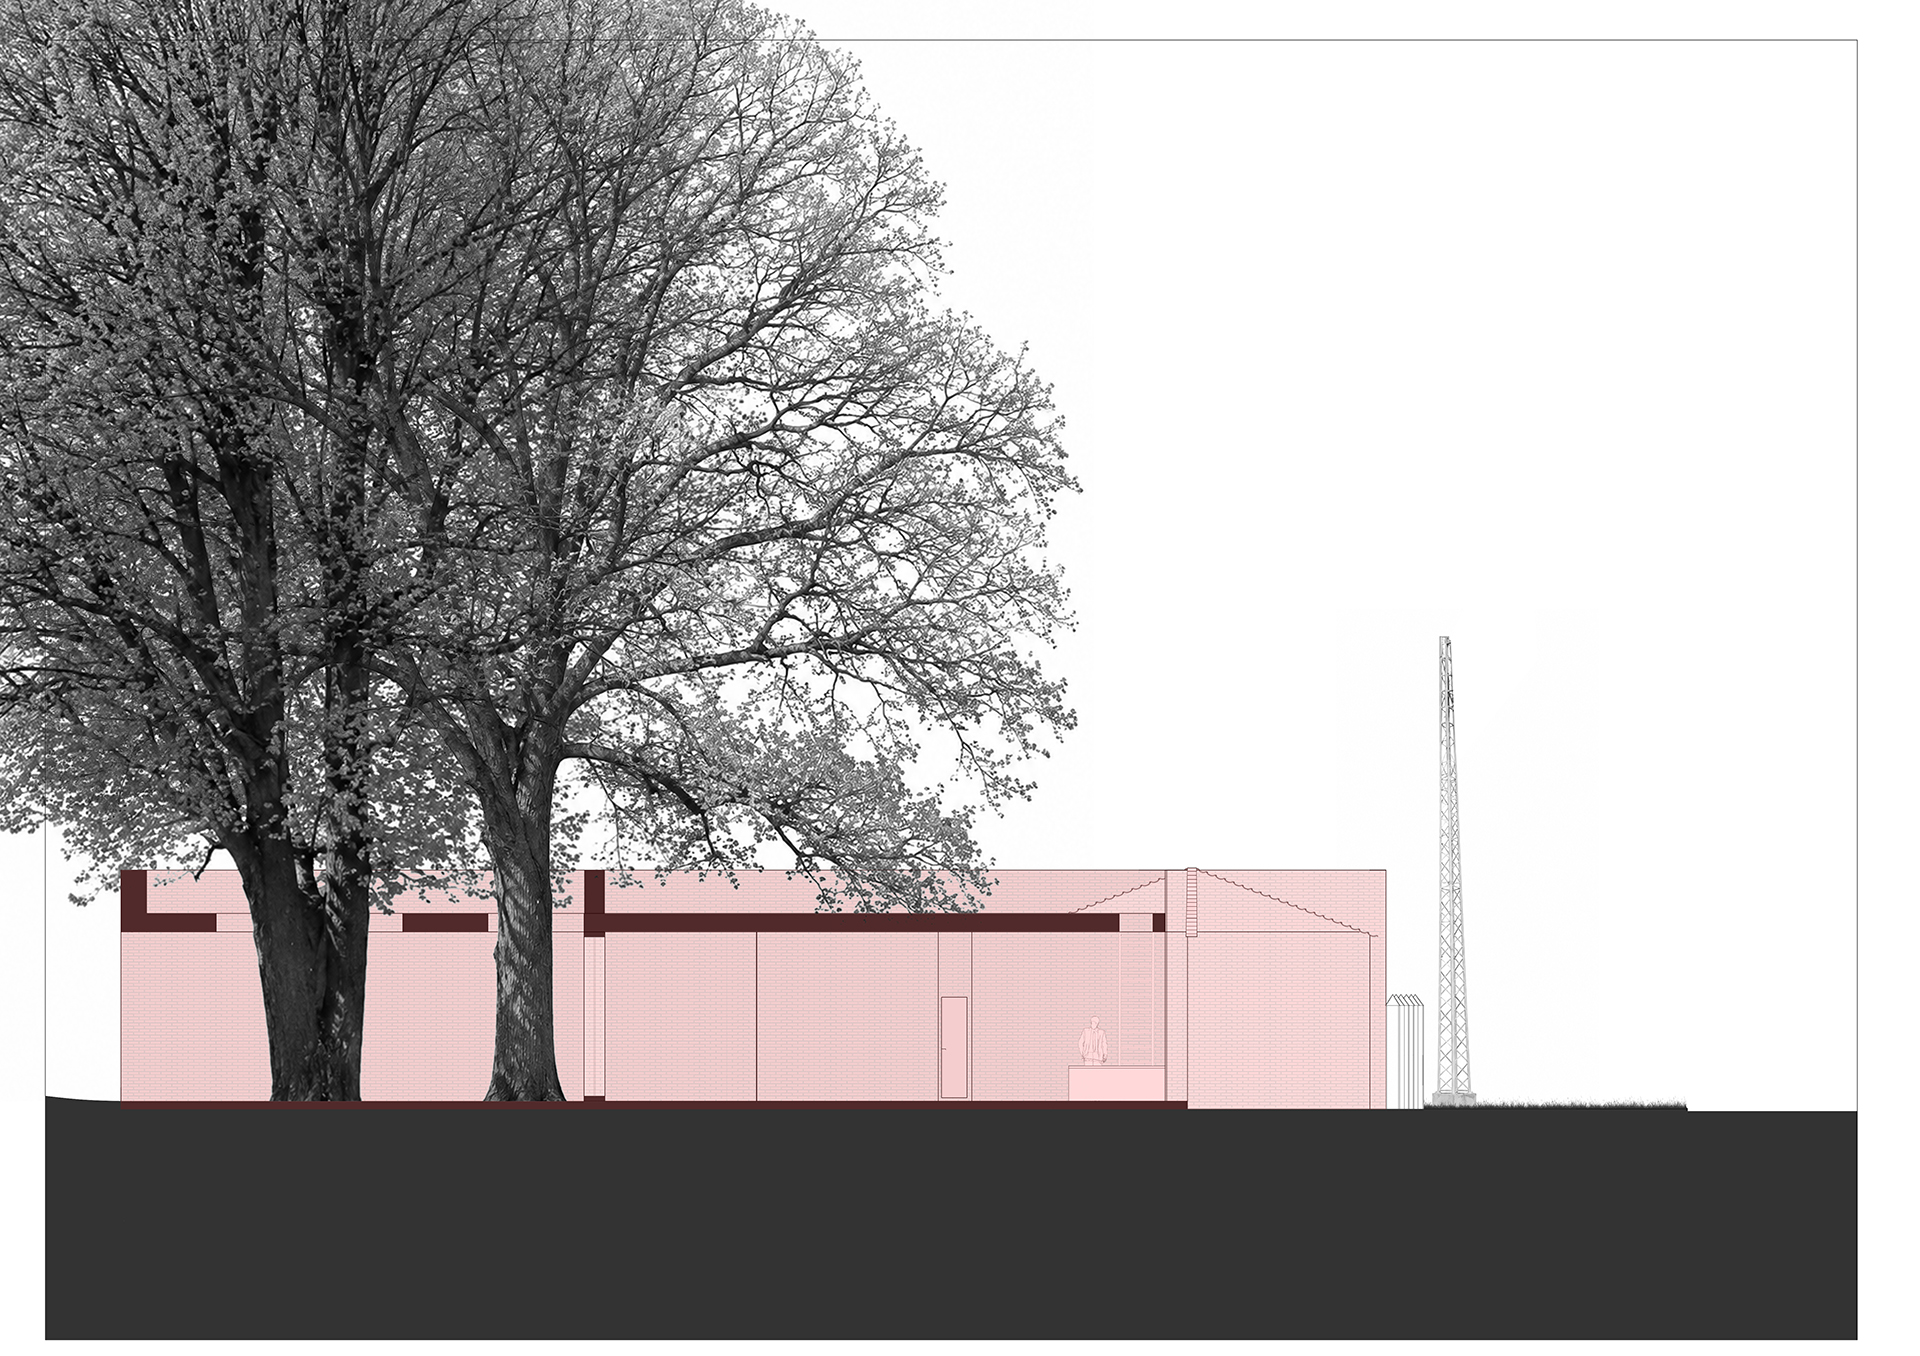
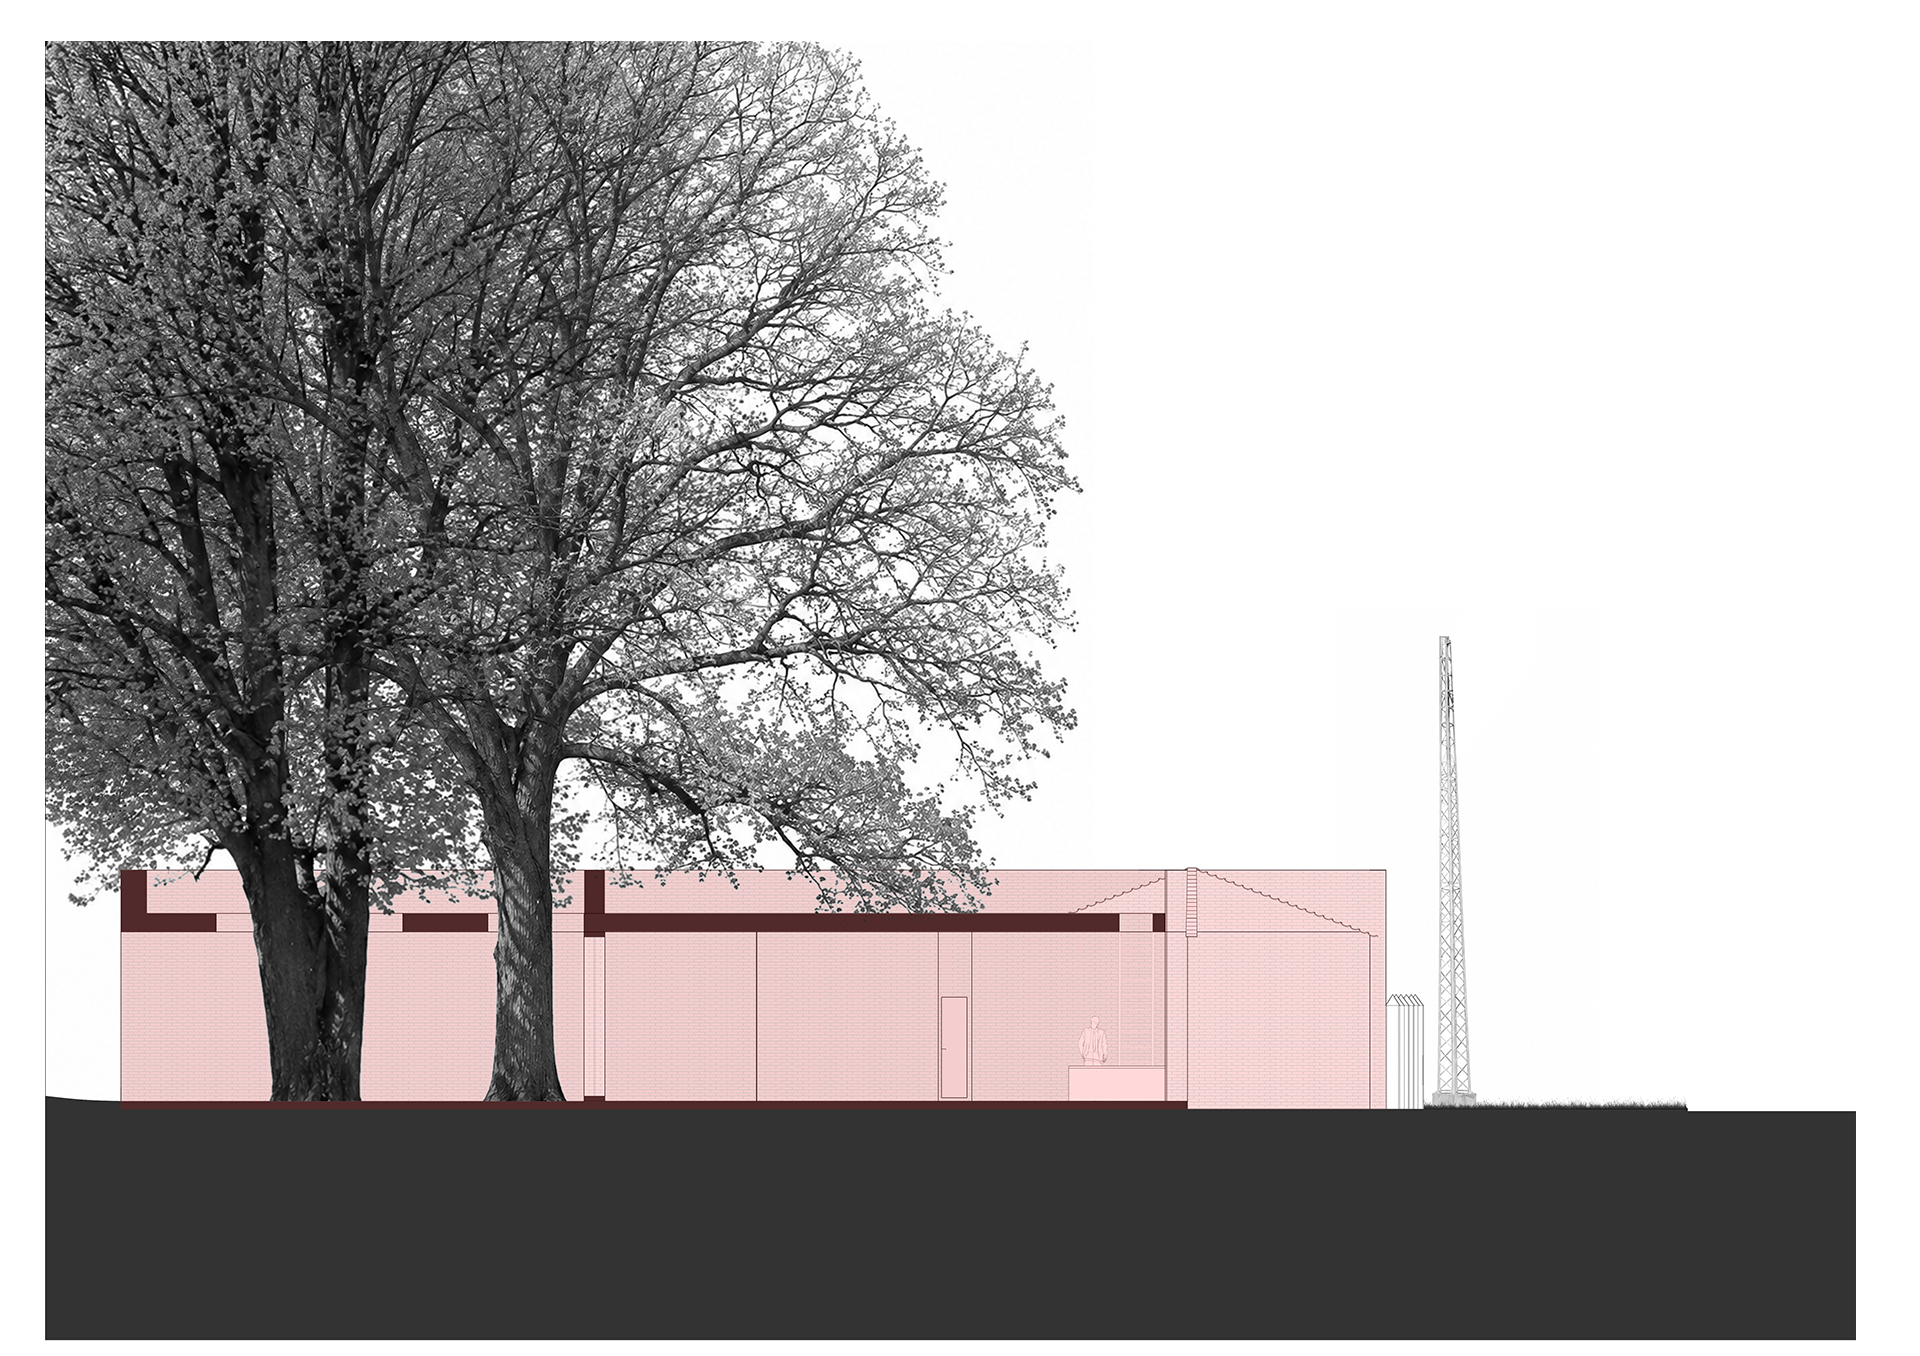
s4

Changed region(s): [[0.0, 0.0, 0.4375, 0.6195]]

diff --git a/_pgbackup/portfolio-item-3_1782663795.html b/_pgbackup/portfolio-item-3_1782663795.html
@@ -1,0 +1,132 @@
+<!DOCTYPE html>
+<html lang="en">
+    <head>
+        <link href="style.css" rel="stylesheet" type="text/css">
+        <link rel="stylesheet" href="https://cdnjs.cloudflare.com/ajax/libs/font-awesome/4.7.0/css/font-awesome.min.css">
+        <meta charset="UTF-8">
+        <meta name="viewport" content="width=device-width, initial-scale=1.0">
+        <title>marius-vision - Portrait of Us</title>
+    </head>
+    <body>
+        <header>
+            <div class="header-inner">
+                <div class="container">
+                    <nav>
+                        <div class="logo"><a href="index.html"> <img src="images/logokanaa.svg" alt="Designer Portrait"> </a>
+                        </div>
+                        <div style="display: flex; align-items: center;">
+                            <ul class="nav-menu">
+                                <li>
+                                    <a href="index.html#services">Portfolio</a>
+                                </li>
+                                <li>
+                                    <a href="contact-details.html">Contact</a>
+                                </li>
+                            </ul>
+                            <div class="language-buttons">
+                                <button class="language-button active">EN</button>
+                                <button class="language-button">DA</button>
+                                <button class="language-button">ES</button>
+                            </div>
+                        </div>
+                    </nav>
+                </div>
+            </div>
+        </header>
+        <section id="project-details">
+            <div class="container">
+                <div class="project-content">
+                    <!-- Article Header -->
+                    <div class="project-description">
+                        <h2>My Second Semester Project</h2>
+                        <p class="subtitle">During the spring semester at the Royal Academy, our studies included reading about 'The Perfection of Myth'.</p>
+                        <p>My program is a secular naming ritual — a place where one can meditate on naming as a phenomenon. Located as an extension to the old transformer station at Frederiksberg Hospital, it explores the deep paradox of identity.</p>
+                    </div>
+                    <!-- Single image — medium width, centered -->
+                    <div class="project-image medium-centered">
+                        <div class="image-container">
+                            <img src="/images/before-transformation.jpg" alt="Photo of the real place before transformation at Frederiksberg Hospital">
+                        </div>
+                    </div>
+                    <!-- Text block — narrow reading column -->
+                    <div class="project-text">
+                        <p>To give a child a name is a necessary reduction: the child becomes a word, which allows them to enter a community, to be seen and loved. But it is also a limitation. There is a silent loss that happens every time humans try to hold onto the world. We name stars, diseases, emotions, children, love, and grief—as if the words can hold them still long enough so we don’t lose them. My architecture attempts to support a meditation on this very paradox.</p>
+                    </div>
+                    <!-- Two Column Images -->
+                    <div class="project-images two-column">
+                        <div class="image-container">
+                            <img src="/images/locationplan.jpg" alt="Location plan of the site">
+                        </div>
+                        <div class="image-container">
+                            <img src="/images/normal-height-plan.jpg" alt="Normal height plan">
+                        </div>
+                    </div>
+                    <div class="project-text">
+                        <p>The ritual starts upon arrival at the extension I added to the old transformer station. I removed the original door and repurposed it as a sliding door for the new building. You arrive at a reception and meet a guide. While waiting for the other guests, you look out towards two large trees—a Turkish hazel and an ash tree. In the reception, a ladder leads up to a roof terrace exclusively for the employees, where they gather leaves from these very trees to brew a tea used later in the ritual.</p>
+                    </div>
+                    <div class="project-image medium-centered">
+                        <div class="image-container">
+                            <img src="/images/vis-outside.jpg" alt="Visualisation of outside">
+                        </div>
+                    </div>
+                    <div class="project-text">
+                        <p>Once all 50 guests have arrived, the ritual begins. The employee leads the way and explains: <em>"In the columns you will see how the architecture abstracts the trees — an infinitely complex living reality reduced to a simple diagram. This is what we are doing to this child today. As you walk through, prepare yourselves to understand this reduction."</em></p>
+                    </div>
+                    <!-- Two Column Images -->
+                    <div class="project-images two-column">
+                        <div class="image-container">
+                            <img src="/images/wood-model.jpg" alt="Photo of wood model depicting the column">
+                        </div>
+                        <div class="image-container">
+                            <img src="/images/brick-model.jpg" alt="Photo of brick model depicting the same column">
+                        </div>
+                    </div>
+                    <div class="project-text">
+                        <p>Wandering between the columns, you meet a staircase leading down to an underground, organically shaped room made of black bricks. The room is filled with thick steam from a large pot of brewing tea, making it difficult to decipher the boundaries of the room and the shapes of the other guests. To design this complex geometry, I created a physical clay model, 3D scanned it, and generated the intricate brickwork using Grasshopper scripts.</p>
+                    </div>
+                    <!-- Two Column Images -->
+                    <div class="project-images two-column">
+                        <div class="image-container">
+                            <img src="/images/basement-plan.jpg" alt="Basement plan">
+                        </div>
+                        <div class="image-container">
+                            <img src="/images/section1.jpg" alt="Section 1 drawing">
+                        </div>
+                    </div>
+                    <div class="project-image medium-centered">
+                        <div class="image-container">
+                            <img src="/images/vis-underground.jpg" alt="Visualisation of the underground organic brick room">
+                        </div>
+                    </div>
+                    <div class="project-text">
+                        <p>The employee hands out the tea brewed from the roof terrace leaves and says: <em>"Before the abstraction, there is the void. Before the word, you were a boundless form in the dark. Drink the tea. Meditate on the time before you had boundaries."</em> After drinking the tea, you walk through a narrow, tight, and cold tunnel.</p>
+                    </div>
+                    <div class="project-image medium-centered">
+                        <div class="image-container">
+                            <img src="/images/vis-inside.jpg" alt="Visualisation of the inside circular room open to the sky">
+                        </div>
+                    </div>
+                    <div class="project-text">
+                        <p>You then step out into a circular room, still underground, but with the ceiling entirely open to the sky. There are niches filled with folded paper lanterns, brushes, and ink. The employee continues: <em>"Under the open sky, form returns. We cannot live in the infinite and formless. Write your name on a lantern, draw your boundaries into existence."</em></p>
+                        <p>Everyone paints their name. The parents of the nameless child write "Aske" on a larger, red lantern. The employee lights an oil lamp, handing it to the parents who light the red lantern, and pass the flame along until the room is glowing with fifty paper lamps.</p>
+                    </div>
+                    <!-- Two Column Images -->
+                    <div class="project-images two-column">
+                        <div class="image-container">
+                            <img src="/images/section2.jpg" alt="Section 2 drawing">
+                        </div>
+                        <div class="image-container">
+                            <img src="/images/vis-garden.jpg" alt="Visualisation of the divided garden">
+                        </div>
+                    </div>
+                    <div class="project-text">
+                        <p>Finally, the procession ascends to a path that divides the garden in two: on one side, a perfectly manicured garden; on the other, a flooded landscape. The architecture forces you down close to the water's surface. The employee speaks at the water's edge: <em>"The water does not abstract. It mirrors every twisted branch, every broken leaf. We place the name on the water as a promise to the child: we have given you a word to bind you to the world — but the world will still mirror you in your entirety."</em></p>
+                        <p>The paper lanterns are set on the water, drifting out. Fifty names forming a constellation on the dark water, floating over the perfect reflections of tree crowns, which might just as well be roots.</p>
+                    </div>
+                </div>
+            </div>
+        </section>
+        <script src="nav-scroll.js"></script>
+        <script src="footer.js"></script>
+    </body>
+</html>

diff --git a/portfolio-item-3.html b/portfolio-item-3.html
@@ -39,40 +39,46 @@
                     <!-- Article Header -->
                     <div class="project-description">
                         <h2>My Second Semester Project</h2>
-                        <p class="subtitle">During the spring semester at the Royal Academy, our studies included reading about 'The Perfection of Myth'.</p>
-                        <p>My program is a secular naming ritual — a place where one can meditate on naming as a phenomenon. Located as an extension to the old transformer station at Frederiksberg Hospital, it explores the deep paradox of identity.</p>
+                        <p class="subtitle">During the spring semester at the Royal Academy, our assignment was to design a ritual space.</p>
+                        <p>My program is a secular naming ritual — a place where one can meditate on naming as a phenomenon. Located as an extension to the old transformer station at Frederiksberg Hospital, this project is fundamentally about transformation.</p>
                     </div>
-                    <!-- Single image — medium width, centered -->
-                    <div class="project-image medium-centered">
+                    <div class="project-text">
+                        <p>Our semester included reading <em>The Perfection of Myth</em>, which argues that a myth is simply a narrative through which we understand reality. These narratives have value as tools, but we should not mistake them for reality itself. Today, our rational understanding of the world is just another narrative that people have come to believe is absolute truth. The issue with this "rationality myth" is that it is strictly limited by language; everything must be reduced to words.</p>
+                        <p>I resonate deeply with this critique because some of the most beautiful things in life simply cannot be explained with words. What a sad consequence, then, if even a child must be entirely reduced to a word in the act of naming. My architecture attempts to support a meditation on this very paradox, offering a space to reflect on the silent loss that occurs when we try to capture the boundless world in words.</p>
+                    </div>
+                    <!-- Before and After Photos Side-by-Side -->
+                    <div class="project-images two-column">
                         <div class="image-container">
                             <img src="/images/before-transformation.jpg" alt="Photo of the real place before transformation at Frederiksberg Hospital">
                         </div>
-                    </div>
-                    <!-- Text block — narrow reading column -->
-                    <div class="project-text">
-                        <p>To give a child a name is a necessary reduction: the child becomes a word, which allows them to enter a community, to be seen and loved. But it is also a limitation. There is a silent loss that happens every time humans try to hold onto the world. We name stars, diseases, emotions, children, love, and grief—as if the words can hold them still long enough so we don’t lose them. My architecture attempts to support a meditation on this very paradox.</p>
-                    </div>
-                    <!-- Two Column Images -->
-                    <div class="project-images two-column">
                         <div class="image-container">
-                            <img src="/images/locationplan.jpg" alt="Location plan of the site">
-                        </div>
-                        <div class="image-container">
-                            <img src="/images/normal-height-plan.jpg" alt="Normal height plan">
+                            <img src="/images/vis-outside.jpg" alt="Visualisation of the exterior showing my architectural additions">
                         </div>
                     </div>
                     <div class="project-text">
-                        <p>The ritual starts upon arrival at the extension I added to the old transformer station. I removed the original door and repurposed it as a sliding door for the new building. You arrive at a reception and meet a guide. While waiting for the other guests, you look out towards two large trees—a Turkish hazel and an ash tree. In the reception, a ladder leads up to a roof terrace exclusively for the employees, where they gather leaves from these very trees to brew a tea used later in the ritual.</p>
+                        <p>The ritual starts upon arrival at the new extension. I removed the original door from the transformer station and repurposed it as a sliding door for the new building. You arrive at a reception and meet a guide. While waiting for the other guests, you look out towards a Turkish hazel and an ash tree. In the reception, a ladder leads up to a roof terrace exclusively for the employees, where they gather leaves from these trees to brew a tea used later in the ritual.</p>
+                        <p>In all my technical drawings, the elements highlighted in red indicate where I have transformed the existing structure and added my design.</p>
                     </div>
                     <div class="project-image medium-centered">
                         <div class="image-container">
-                            <img src="/images/vis-outside.jpg" alt="Visualisation of outside">
+                            <img src="/images/locationplan.jpg" alt="Location plan of the site">
+                        </div>
+                    </div>
+                    <div class="project-image medium-centered">
+                        <div class="image-container">
+                            <img src="/images/normal-height-plan.jpg" alt="Normal height plan highlighting added architecture in red">
                         </div>
                     </div>
                     <div class="project-text">
-                        <p>Once all 50 guests have arrived, the ritual begins. The employee leads the way and explains: <em>"In the columns you will see how the architecture abstracts the trees — an infinitely complex living reality reduced to a simple diagram. This is what we are doing to this child today. As you walk through, prepare yourselves to understand this reduction."</em></p>
+                        <p>Once the guests are gathered, the ritual begins. The guide leads the way into a squared room, explaining: <em>"In the columns you will see how the architecture abstracts the trees — an infinitely complex living reality reduced to a simple diagram. This is what we are doing to the child today. As you walk through, prepare yourselves to understand this reduction."</em></p>
                     </div>
-                    <!-- Two Column Images -->
+                    <!-- Inside visual: squared room with columns -->
+                    <div class="project-image medium-centered">
+                        <div class="image-container">
+                            <img src="/images/vis-inside.jpg" alt="Visualisation from inside the squared room with columns and trees">
+                        </div>
+                    </div>
+                    <!-- Portrait Model Photos Side-by-Side -->
                     <div class="project-images two-column">
                         <div class="image-container">
                             <img src="/images/wood-model.jpg" alt="Photo of wood model depicting the column">
@@ -82,46 +88,53 @@
                         </div>
                     </div>
                     <div class="project-text">
-                        <p>Wandering between the columns, you meet a staircase leading down to an underground, organically shaped room made of black bricks. The room is filled with thick steam from a large pot of brewing tea, making it difficult to decipher the boundaries of the room and the shapes of the other guests. To design this complex geometry, I created a physical clay model, 3D scanned it, and generated the intricate brickwork using Grasshopper scripts.</p>
+                        <p>Wandering between the columns, you meet a staircase leading down to an underground, organically shaped room made of black bricks. To design this complex geometry, I created a physical clay model, 3D scanned it, and then generated the intricate brickwork parameters using various Grasshopper scripts.</p>
                     </div>
-                    <!-- Two Column Images -->
-                    <div class="project-images two-column">
+                    <!-- Grasshopper Process Image -->
+                    <div class="project-image medium-centered">
                         <div class="image-container">
-                            <img src="/images/basement-plan.jpg" alt="Basement plan">
+                            <img src="/images/grasshopper-process.jpg" alt="Grasshopper script and 3D generation process">
                         </div>
+                    </div>
+                    <div class="project-image medium-centered">
+                        <div class="image-container">
+                            <img src="/images/basement-plan.jpg" alt="Basement plan showing the underground organic room">
+                        </div>
+                    </div>
+                    <div class="project-image medium-centered">
                         <div class="image-container">
                             <img src="/images/section1.jpg" alt="Section 1 drawing">
                         </div>
                     </div>
-                    <div class="project-image medium-centered">
-                        <div class="image-container">
-                            <img src="/images/vis-underground.jpg" alt="Visualisation of the underground organic brick room">
-                        </div>
-                    </div>
                     <div class="project-text">
-                        <p>The employee hands out the tea brewed from the roof terrace leaves and says: <em>"Before the abstraction, there is the void. Before the word, you were a boundless form in the dark. Drink the tea. Meditate on the time before you had boundaries."</em> After drinking the tea, you walk through a narrow, tight, and cold tunnel.</p>
+                        <p>Down in the underground room, the air is filled with thick steam from a large pot of brewing tea, making it difficult to decipher the boundaries of the space and the shapes of the other guests. The guide hands out the tea brewed from the roof terrace leaves: <em>"Before the abstraction, there is the void. Before the word, you were a boundless form in the dark. Drink the tea. Meditate on the time before you had boundaries."</em></p>
                     </div>
                     <div class="project-image medium-centered">
                         <div class="image-container">
-                            <img src="/images/vis-inside.jpg" alt="Visualisation of the inside circular room open to the sky">
+                            <img src="/images/vis-underground.jpg" alt="Visualisation of the underground organic brick room filled with steam">
                         </div>
                     </div>
                     <div class="project-text">
-                        <p>You then step out into a circular room, still underground, but with the ceiling entirely open to the sky. There are niches filled with folded paper lanterns, brushes, and ink. The employee continues: <em>"Under the open sky, form returns. We cannot live in the infinite and formless. Write your name on a lantern, draw your boundaries into existence."</em></p>
-                        <p>Everyone paints their name. The parents of the nameless child write "Aske" on a larger, red lantern. The employee lights an oil lamp, handing it to the parents who light the red lantern, and pass the flame along until the room is glowing with fifty paper lamps.</p>
+                        <p>After drinking the tea, you walk through a narrow, tight, and cold tunnel. You then step out into a circular room, still underground, but with the ceiling entirely open to the sky. There are niches filled with folded paper lanterns, brushes, and ink.</p>
+                        <p>The guide continues: <em>"Under the open sky, form returns. We cannot live in the infinite and formless. Write a name on a lantern, draw the boundaries into existence."</em></p>
+                        <p>The participants paint on the lanterns. A flame is passed along until the circular space is glowing with fifty paper lamps.</p>
                     </div>
-                    <!-- Two Column Images -->
-                    <div class="project-images two-column">
+                    <div class="project-image medium-centered">
                         <div class="image-container">
                             <img src="/images/section2.jpg" alt="Section 2 drawing">
                         </div>
+                    </div>
+                    <div class="project-text">
+                        <p>Finally, the procession ascends to a path that divides the garden in two: on one side, a perfectly manicured garden; on the other, a flooded landscape. The architecture forces you down close to the water's surface. The guide speaks at the water's edge:</p>
+                        <p><em>"The water does not abstract. It mirrors every twisted branch, every broken leaf. We place the name on the water as a promise to the child: we have given you a word to bind you to the world — but the world will still mirror you in your entirety."</em></p>
+                    </div>
+                    <div class="project-image medium-centered">
                         <div class="image-container">
                             <img src="/images/vis-garden.jpg" alt="Visualisation of the divided garden">
                         </div>
                     </div>
                     <div class="project-text">
-                        <p>Finally, the procession ascends to a path that divides the garden in two: on one side, a perfectly manicured garden; on the other, a flooded landscape. The architecture forces you down close to the water's surface. The employee speaks at the water's edge: <em>"The water does not abstract. It mirrors every twisted branch, every broken leaf. We place the name on the water as a promise to the child: we have given you a word to bind you to the world — but the world will still mirror you in your entirety."</em></p>
-                        <p>The paper lanterns are set on the water, drifting out. Fifty names forming a constellation on the dark water, floating over the perfect reflections of tree crowns, which might just as well be roots.</p>
+                        <p>The paper lanterns are set on the water, drifting out into a constellation on the dark surface, floating over the perfect reflections of tree crowns that might just as well be roots.</p>
                     </div>
                 </div>
             </div>